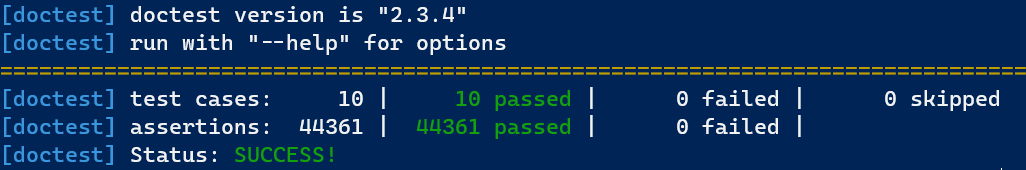
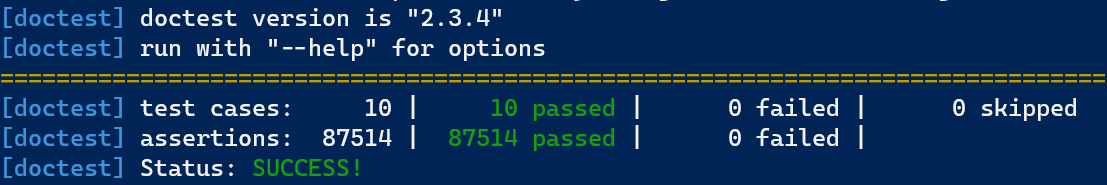
1A: Review #2

diff --git a/Task1A/Task1A.cpp b/Task1A/Task1A.cpp
@@ -54,7 +54,7 @@ const zero_fill_t zero_fill;
 // cppcoreguidelines check is stupid, it thinks this class contains non-default constructor
 // it even continues to think so when "<...> = default;" constructor is removed
 
-struct diagonal_fill_t  // NOLINT(cppcoreguidelines-special-member-functions)
+struct diagonal_fill_t // NOLINT(cppcoreguidelines-special-member-functions)
 {
     diagonal_fill_t() = default;
     virtual ~diagonal_fill_t() = default;
@@ -133,7 +133,7 @@ class Matrix final
     std::size_t size_ = 0;
     storage_type** storage_ = nullptr;
 
-    explicit Matrix(std::size_t n) : size_(n), storage_(new storage_type* [n])
+    explicit Matrix(const std::size_t n) : size_(n), storage_(new storage_type* [n])
     {
         assert(n >= 1);
     }
@@ -224,7 +224,7 @@ public:
         return this->size_;
     }
 
-    storage_type& operator()(std::size_t row, std::size_t column)
+    storage_type& operator()(const std::size_t row, const std::size_t column)
     {
         assert(this->storage_ != nullptr);
         assert(row < size());
@@ -233,13 +233,73 @@ public:
         return this->storage_[row][column];
     }
 
-    const storage_type& operator()(std::size_t row, std::size_t column) const
+    const storage_type& operator()(const std::size_t row, const std::size_t column) const
     {
         assert(this->storage_ != nullptr);
         assert(row < size());
         assert(column < size());
 
         return this->storage_[row][column];
+    }
+
+    class RowProxy final
+    {
+        const Matrix* container_ = nullptr;
+        storage_type* row_ = nullptr;
+
+        friend Matrix;
+
+        RowProxy(const Matrix* const container, storage_type* const row)
+            : container_(container), row_(row)
+        {
+        }
+
+    public:
+        ~RowProxy() = default;
+
+        RowProxy(const RowProxy& other) = default;
+        RowProxy(RowProxy&& other) noexcept = default;
+        RowProxy& operator=(const RowProxy& other) = default;
+        RowProxy& operator=(RowProxy&& other) noexcept = default;
+
+        std::size_t size() const
+        {
+            assert(this->container_ != nullptr);
+
+            return this->container_->size();
+        }
+
+        storage_type& operator[](const std::size_t column)
+        {
+            assert(this->row_ != nullptr);
+            assert(column < size());
+
+            return this->row_[column];
+        }
+
+        const storage_type& operator[](const std::size_t column) const
+        {
+            assert(this->row_ != nullptr);
+            assert(column < size());
+
+            return this->row_[column];
+        }
+    };
+
+    RowProxy operator[](const std::size_t row)
+    {
+        assert(this->storage_ != nullptr);
+        assert(row < size());
+
+        return {this, this->storage_[row]};
+    }
+
+    RowProxy operator[](const std::size_t row) const
+    {
+        assert(this->storage_ != nullptr);
+        assert(row < size());
+
+        return { this, this->storage_[row] };
     }
 
     void swap(Matrix& that) noexcept
@@ -426,7 +486,9 @@ void check_element_modification(Matrix& m)
 
     CHECK_EQ(m.size(), 5);
     CHECK_EQ(m(4, 4), INT64_MAX);
+    CHECK_EQ(m[4][4], INT64_MAX);
 }
+
 void check_manual_fill(Matrix& m)
 {
     CHECK_EQ(m.size(), 5);
@@ -444,9 +506,11 @@ void check_manual_fill(Matrix& m)
 
     for (std::size_t i = 0; i < m.size(); i++)
     {
+        auto row = m[i];
         for (std::size_t j = 0; j < m.size(); j++)
         {
             CHECK_EQ(m(i, j), i + j);
+            CHECK_EQ(row[j], i + j);
         }
     }
 }
@@ -476,9 +540,11 @@ TEST_CASE("matrices can be created with zero fill")
 
     for (std::size_t i = 0; i < m.size(); i++)
     {
+        const auto row = m[i];
         for (std::size_t j = 0; j < m.size(); j++)
         {
             REQUIRE_EQ(m(i, j), 0);
+            REQUIRE_EQ(row[j], 0);
         }
     }
 
@@ -514,23 +580,25 @@ TEST_CASE("matrices can be copied")
 {
     SUBCASE("copy-initialized matrices is identical")
     {
-        Matrix m(5, random_fill);
+        Matrix m1(5, random_fill);
 
-        REQUIRE_EQ(m.size(), 5);
+        REQUIRE_EQ(m1.size(), 5);
 
-        const auto m2 = m;
+        const auto m2 = m1;
 
-        CHECK_EQ(m.size(), m2.size());
+        CHECK_EQ(m1.size(), m2.size());
 
-        for (std::size_t i = 0; i < m.size(); i++)
+        for (std::size_t i = 0; i < m1.size(); i++)
         {
-            for (std::size_t j = 0; j < m.size(); j++)
+            const auto row1 = m1[i];
+            const auto row2 = m2[i];
+            for (std::size_t j = 0; j < m1.size(); j++)
             {
-                CHECK_EQ(m(i, j), m2(i, j));
+                CHECK_EQ(m1(i, j), m2(i, j));
+                CHECK_EQ(row1[j], row2[j]);
             }
         }
     }
-
 }
 
 TEST_CASE("matrices are copy-assigned correctly")
@@ -551,31 +619,38 @@ TEST_CASE("matrices are copy-assigned correctly")
 
     for (std::size_t i = 0; i < n; i++)
     {
+        const auto rowA = a[i];
+        const auto rowB = b[i];
         for (std::size_t j = 0; j < n; j++)
         {
             CHECK_EQ(a(i, j), b(i, j));
+            CHECK_EQ(rowA[j], rowB[j]);
         }
     }
 }
 
 TEST_CASE("matrices can be negated")
 {
-    Matrix m(5, random_fill);
-
-    REQUIRE_EQ(m.size(), 5);
-
     SUBCASE("negated matrices is correct")
     {
-        const auto m2 = -m;
+        Matrix m1(5, random_fill);
 
-        CHECK_EQ(m.size(), m2.size());
+        REQUIRE_EQ(m1.size(), 5);
 
-        for (std::size_t i = 0; i < m.size(); i++)
+        const auto m2 = -m1;
+
+        CHECK_EQ(m1.size(), m2.size());
+
+        for (std::size_t i = 0; i < m1.size(); i++)
         {
-            for (std::size_t j = 0; j < m.size(); j++)
+            const auto row1 = m1[i];
+            const auto row2 = m2[i];
+            for (std::size_t j = 0; j < m1.size(); j++)
             {
-                CHECK_EQ(m(i, j), -m2(i, j));
-                CHECK_EQ(-m(i, j), m2(i, j));
+                CHECK_EQ(m1(i, j), -m2(i, j));
+                CHECK_EQ(-m1(i, j), m2(i, j));
+                CHECK_EQ(row1[j], -row2[j]);
+                CHECK_EQ(-row1[j], row2[j]);
             }
         }
     }
@@ -598,9 +673,13 @@ TEST_CASE("matrices can be added")
 
         for (std::size_t i = 0; i < a.size(); i++)
         {
+            const auto rowA = a[i];
+            const auto rowB = b[i];
+            const auto rowC = c[i];
             for (std::size_t j = 0; j < a.size(); j++)
             {
                 CHECK_EQ(c(i, j), a(i, j) + b(i, j));
+                CHECK_EQ(rowC[j], rowA[j] + rowB[j]);
             }
         }
     }
@@ -613,9 +692,10 @@ TEST_CASE("matrices can be added")
 
         for (std::size_t i = 0; i < a.size(); i++)
         {
+            const auto rowC = c[i];
             for (std::size_t j = 0; j < a.size(); j++)
             {
-                CHECK_EQ(c(i, j), 0);
+                CHECK_EQ(rowC[j], 0);
             }
         }
     }
